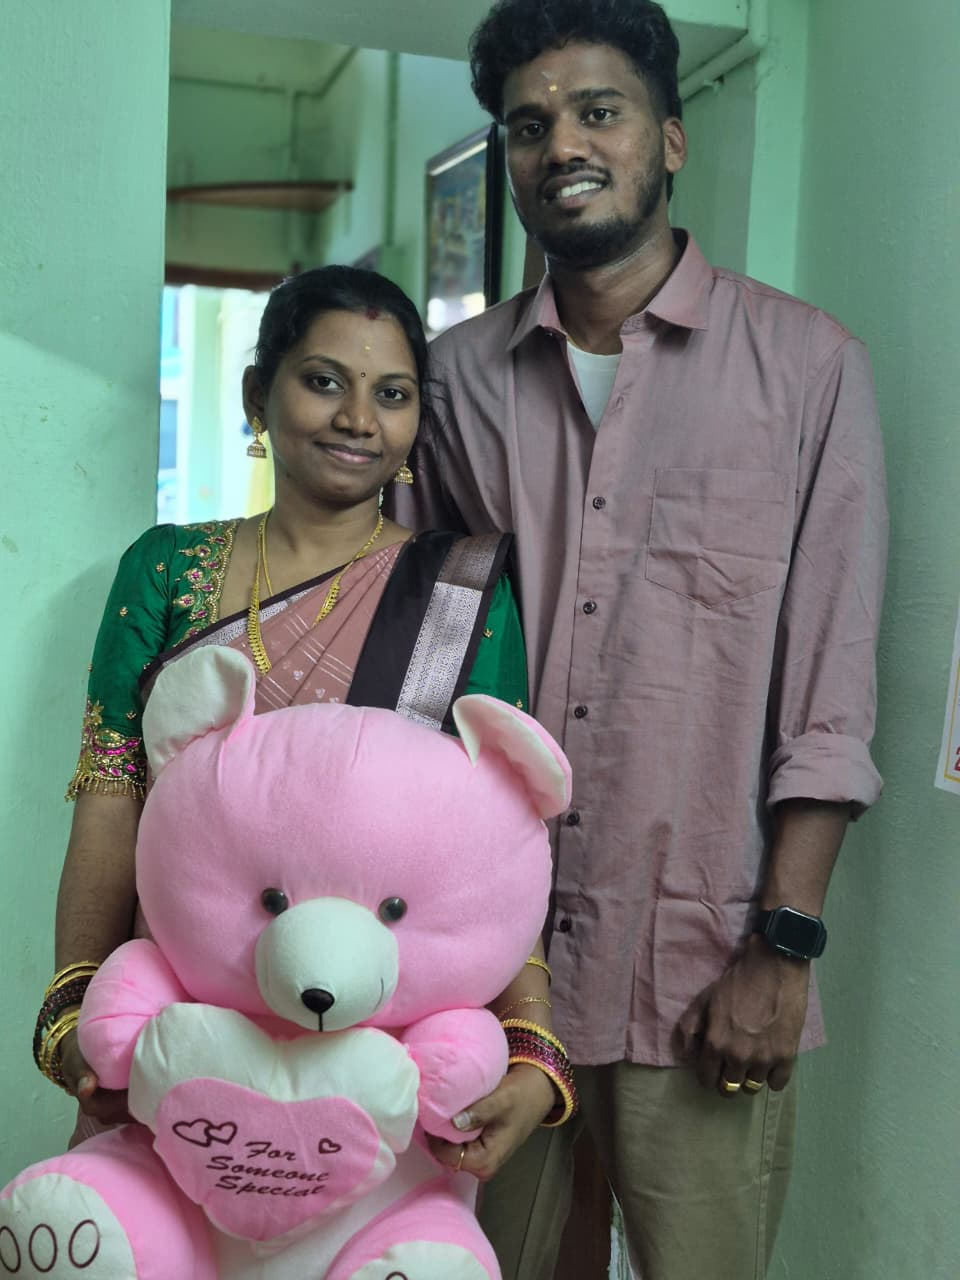
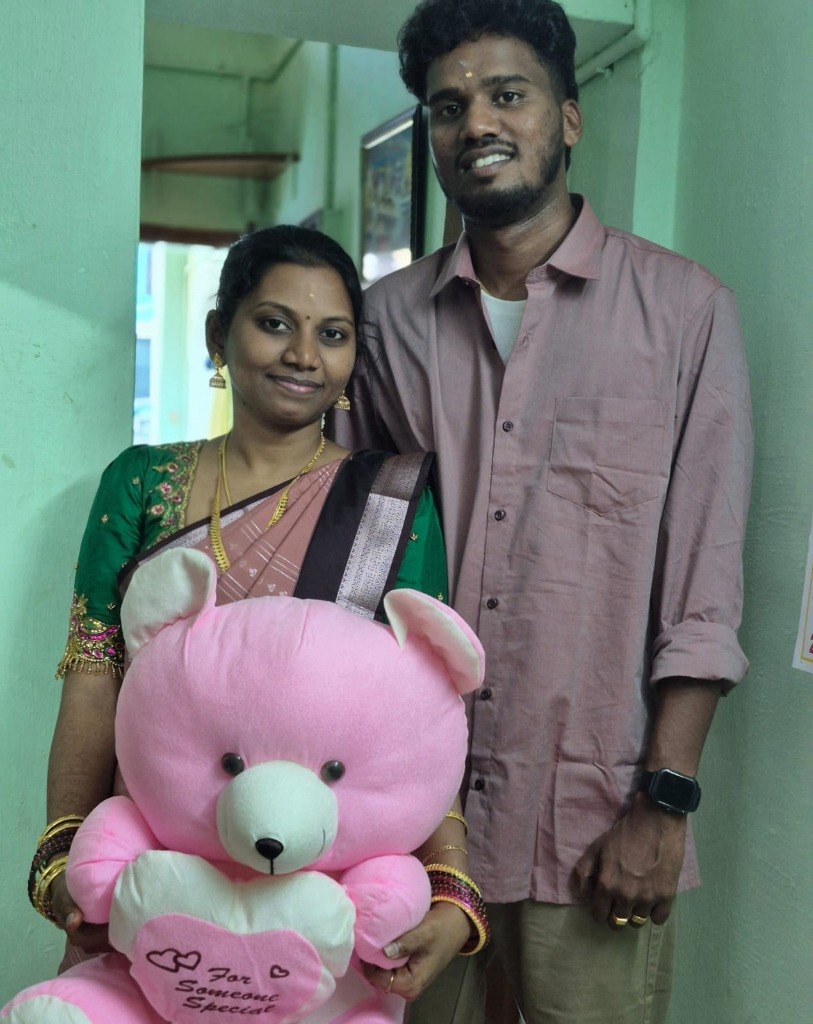
Replace gallery and couple photos with new ones

diff --git a/vite.config.ts b/vite.config.ts
@@ -5,7 +5,7 @@ import { inspectAttr } from 'kimi-plugin-inspect-react'
 
 // https://vite.dev/config/
 export default defineConfig({
-  base: '/Raja_Kayathri/',
+  base: process.env.VERCEL ? '/' : '/Raja_Kayathri/',
   plugins: [inspectAttr(), react()],
   resolve: {
     alias: {
